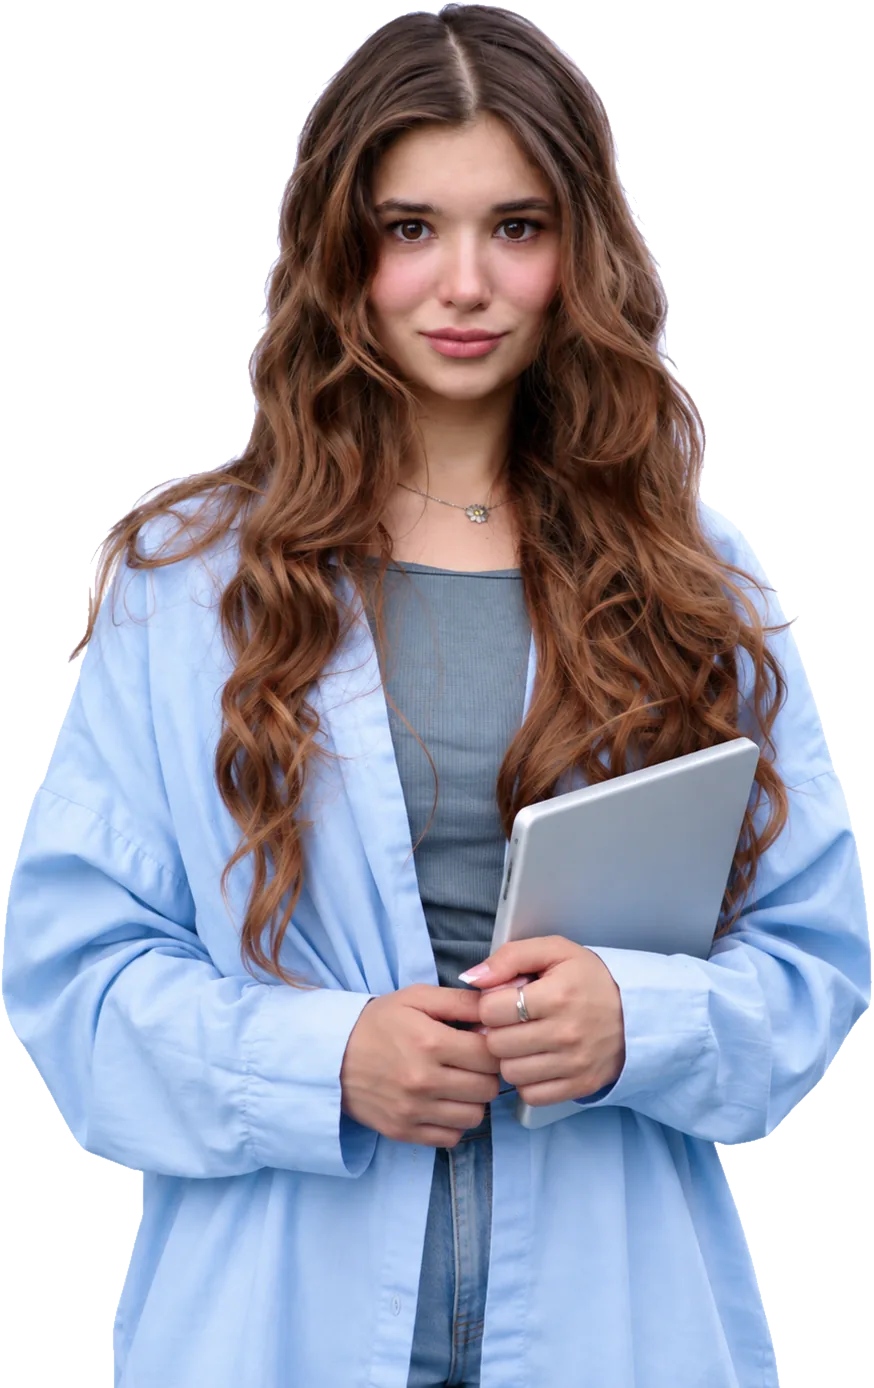
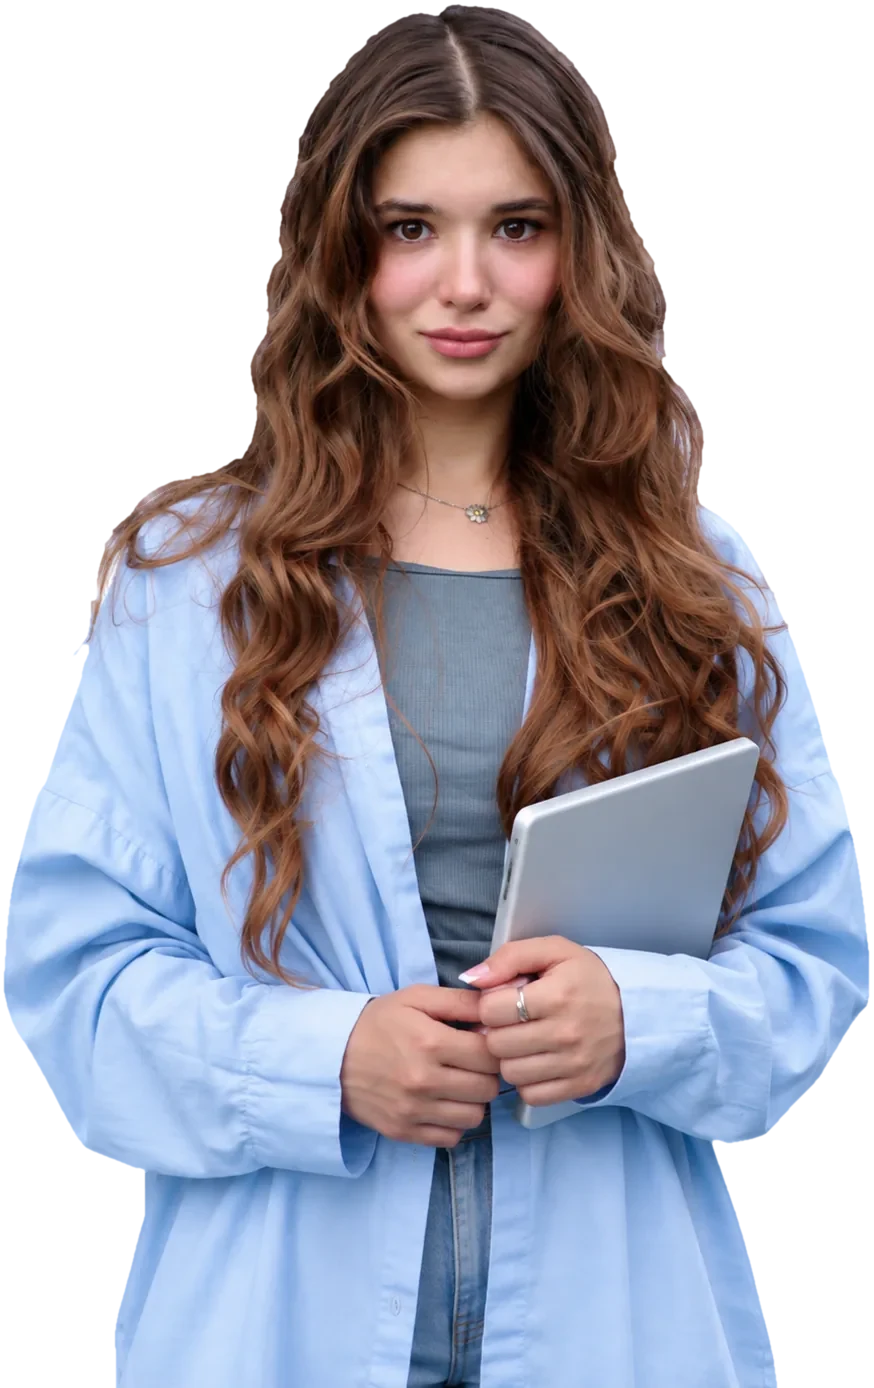
Об авторе: чистый край портрета без белого ореола в тёмной теме
Портрет — вырезанный PNG, по контуру волос остались светлые пиксели
старого фона. Край очищен: цвет полупрозрачных и светлых краевых
пикселей взят изнутри силуэта, маска сжата на ~1,5 px. Оригиналы
лежат рядом как nata-portrait*-original.*.

Кромка рамки в тёмной теме — тонкая полупрозрачная синяя вместо
светлой, низ фото плавно растворяется (mask-image).

Claude-Session: https://claude.ai/code/session_01HDP9rshBNHij7jRr1H8oy8

diff --git a/app/src/app/about/about.css b/app/src/app/about/about.css
@@ -53,7 +53,9 @@
     --oa-lenta-filtr: drop-shadow(0 0 10px rgb(127 176 255 / 0.35));
     --oa-lenta-prozrachnost: 0.9;
     --oa-portret-fon: linear-gradient(160deg, rgb(70 130 255 / 0.22), rgb(70 130 255 / 0.04) 85%);
-    --oa-portret-kromka: rgb(160 195 255 / 0.22);
+    /* Кромка рамки — тонкая и в акцентном синем, не светлая: светлая
+       линия на ночном фоне читалась как белый контур у фото. */
+    --oa-portret-kromka: rgb(79 134 230 / 0.32);
     --oa-final-fon: linear-gradient(135deg, rgb(255 150 70 / 0.14), rgb(70 130 255 / 0.1));
   }
 }
@@ -368,6 +370,9 @@
   max-width: none;
   height: 96%;
   transform: translateX(-50%);
+  /* Низ фото растворяется в подложке рамки — без резкого среза. */
+  -webkit-mask-image: linear-gradient(to bottom, #000 78%, transparent 100%);
+  mask-image: linear-gradient(to bottom, #000 78%, transparent 100%);
 }
 
 /* Натюрморт у нижних углов рамки: бюст справа смотрит на портрет,

diff --git a/app/scripts/kartinki/ochistit-kraj-portreta.py b/app/scripts/kartinki/ochistit-kraj-portreta.py
@@ -1,0 +1,44 @@
+"""Чистка края вырезанного портрета: светлая кайма старого фона.
+python3 defringe.py src.webp out.webp[@WxH] ..."""
+import sys, numpy as np
+from PIL import Image
+from scipy import ndimage as ndi
+im = np.array(Image.open(sys.argv[1]).convert('RGBA')).astype(np.float32)
+rgb, a = im[..., :3], im[..., 3] / 255
+
+# 1) Маска: убрать отдельные островки и крошки (< 40 px).
+m = a > 0.5
+lab, n = ndi.label(m)
+sizes = ndi.sum(m, lab, range(1, n + 1))
+keep = np.isin(lab, 1 + np.flatnonzero(sizes >= 40))
+a = a * ndi.binary_dilation(keep, iterations=2)
+
+# 2) Сжать край ~2 px и сгладить: мягкий, не «рваный» контур.
+a = ndi.grey_erosion(a, size=(5, 5))
+a = ndi.gaussian_filter(a, 1.1)
+a = np.clip((a - 0.12) / 0.8, 0, 1)
+a = a * a * (3 - 2 * a)  # smoothstep — плотнее внутри, мягче на кромке
+
+# 3) Цвет кромки — из глубины силуэта (≥ 7 px от края).
+inside = a > 0.98
+deep = ndi.binary_erosion(inside, iterations=7)
+_, (dy, dx) = ndi.distance_transform_edt(~deep, return_indices=True)
+deepc = ndi.uniform_filter(rgb, size=(5, 5, 1))[dy, dx]
+d_in = ndi.distance_transform_edt(inside)
+# 0–3 px от края: цвет целиком из глубины; 3–14 px: только светлые
+# малонасыщенные пиксели (серо-голубые остатки фона).
+w_full = np.clip((3.5 - d_in) / 3.5, 0, 1)
+lum, dlum = rgb.mean(-1), deepc.mean(-1)
+sat = rgb.max(-1) - rgb.min(-1)
+light = np.clip((lum - dlum - 20) / 40, 0, 1) * (sat < 90) * (d_in < 14)
+k = np.maximum(w_full, light)[..., None]
+rgb = rgb * (1 - k) + deepc * k
+
+out = np.dstack([rgb, a * 255]).clip(0, 255).astype(np.uint8)
+out[a == 0, :3] = 0
+img = Image.fromarray(out, 'RGBA')
+for dst in sys.argv[2:]:
+    path, size = (dst.split('@') + [None])[:2]
+    r = img if not size else img.resize(tuple(int(v) for v in size.split('x')), Image.LANCZOS)
+    if path.endswith('.webp'): r.save(path, 'WEBP', quality=88, method=6, alpha_quality=100)
+    else: r.save(path, optimize=True)
